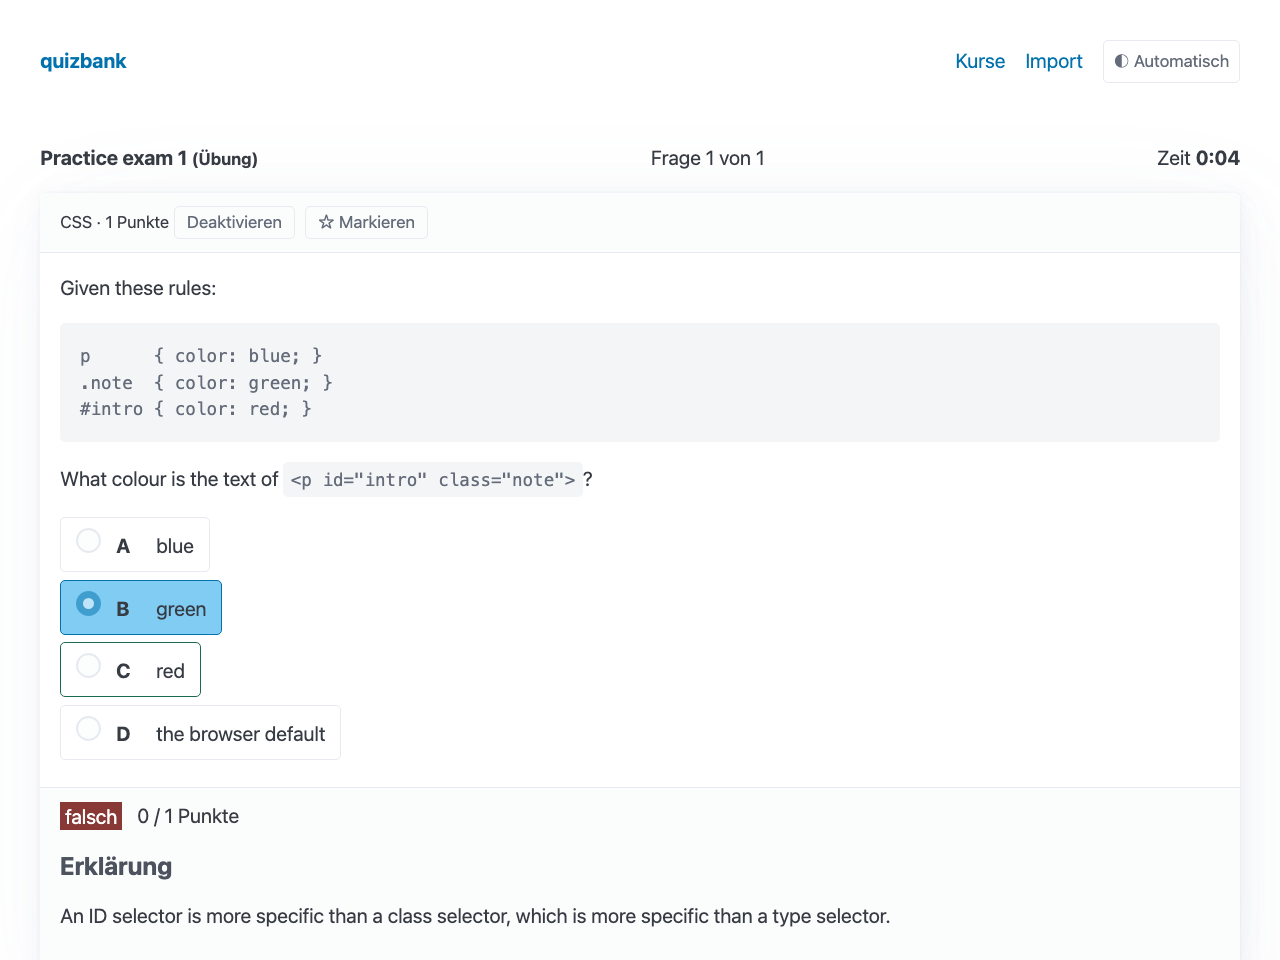
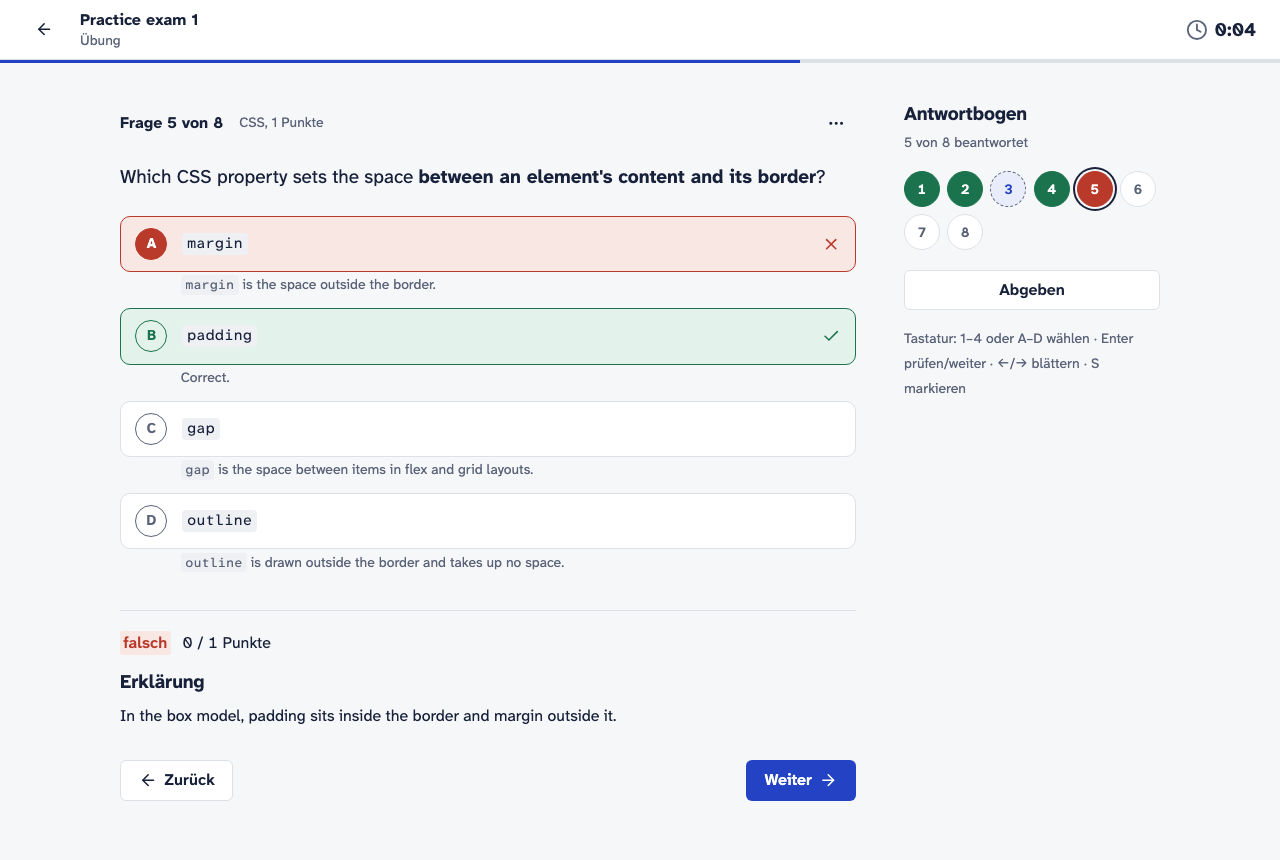
feat: polish the redesign for mobile, contrast and keyboard focus

diff --git a/app/static/app.css b/app/static/app.css
@@ -25,13 +25,14 @@
   --sheet: light-dark(#ffffff, #1a2130);
   --sheet-sunk: light-dark(#eef0f4, #151b27);
   --rule: light-dark(#dce0e7, #2a3346);
+  --field-line: light-dark(#868fa3, #677390); /* 3:1 on sheet and paper: a text field has no other edge */
   --ink: light-dark(#18213a, #e6e9f0);
   --ink-muted: light-dark(#5a6378, #9aa3b5);
   --ballpoint: light-dark(#2443c4, #8ca0ff);
   --ballpoint-wash: light-dark(#e8ecfb, #222c4a);
   --on-ballpoint: light-dark(#ffffff, #121722);
   --marker: light-dark(#f2dd4c, #c9b53a);
-  --right: light-dark(#1e7f55, #4cc28f);
+  --right: light-dark(#1a734d, #4cc28f);
   --right-wash: light-dark(#e3f3eb, #16302a);
   --wrong: light-dark(#b93a2a, #ff7a66);
   --wrong-wash: light-dark(#f9e7e4, #3a2024);
@@ -101,7 +102,7 @@ input, select, textarea, button { font: inherit; color: inherit; }
 input:not([type="checkbox"], [type="radio"], [type="file"]), select, textarea {
   display: block; width: 100%; margin-top: 0.3rem;
   padding: 0.55rem 0.75rem;
-  background: var(--sheet); border: 1px solid var(--rule); border-radius: var(--radius);
+  background: var(--sheet); border: 1px solid var(--field-line); border-radius: var(--radius);
 }
 input:hover, select:hover, textarea:hover { border-color: var(--ink-muted); }
 input:focus-visible, select:focus-visible, textarea:focus-visible { border-color: var(--ballpoint); }
@@ -152,7 +153,6 @@ button:disabled { opacity: 0.45; cursor: not-allowed; filter: none; }
 td form button { padding: 0.3rem 0.75rem; font-size: var(--t-small); }
 
 /* ---- Tables, panels, disclosure -------------------------------------------------------- */
-.overflow-auto { overflow-x: auto; margin-bottom: var(--space); }
 table { width: 100%; border-collapse: collapse; font-variant-numeric: tabular-nums; }
 th, td { text-align: left; padding: 0.6rem 0.75rem; border-bottom: 1px solid var(--rule); vertical-align: middle; }
 thead th { font-size: var(--t-small); font-weight: 600; color: var(--ink-muted); border-bottom-color: var(--ink-muted); }
@@ -272,7 +272,8 @@ ul.errors { margin-bottom: 0; }
 .segmented label:hover { color: var(--ink); }
 .segmented > input:checked + label { background: var(--sheet); color: var(--ink); box-shadow: 0 1px 2px rgb(0 0 0 / 0.08), 0 0 0 1px var(--rule); }
 .segmented > input:focus-visible + label, .tab-bar > input:focus-visible + label,
-.filter-chips > input:focus-visible + label, .count { font-size: var(--t-small); font-weight: 600; color: var(--ink-muted); font-variant-numeric: tabular-nums; }
+.filter-chips > input:focus-visible + label { box-shadow: var(--focus); }
+.count { font-size: var(--t-small); font-weight: 600; color: var(--ink-muted); font-variant-numeric: tabular-nums; }
 
 .start { background: var(--sheet); border: 1px solid var(--rule); border-radius: var(--radius-panel); padding: 1.5rem; margin-bottom: 2.5rem; }
 .start-panel { display: none; margin: 0; }
@@ -477,14 +478,17 @@ form.assess output { font-variant-numeric: tabular-nums; }
 .case-text textarea { font-family: var(--mono); font-size: var(--t-small); }
 
 /* ---- Statistics: one series in ballpoint; thin marks, hairline grid ------------------- */
-.topic-stats th { font-weight: 400; white-space: nowrap; }
+.topic-stats th { font-weight: 400; }
+.topic-stats th, .topic-stats .num { white-space: nowrap; }
 .topic-stats .bar-cell { width: 60%; }
 .bar { height: 10px; background: var(--sheet-sunk); border-radius: 0 4px 4px 0; }
 .bar span { display: block; height: 100%; background: var(--ballpoint); border-radius: 0 4px 4px 0; }
-.line-chart { width: 100%; height: auto; overflow: visible; }
+.line-chart { margin: 0; font-size: var(--t-small); color: var(--ink-muted); font-variant-numeric: tabular-nums; }
+.line-chart .plot { position: relative; margin-top: 1.5rem; } /* room for the top tick label */
+.line-chart svg { display: block; width: 100%; height: auto; overflow: visible; }
+.line-chart .tick { position: absolute; left: var(--inset); transform: translateY(-100%); line-height: 1.3; pointer-events: none; }
+.line-chart .dates { display: flex; justify-content: space-between; padding: 0.25rem var(--inset) 0; }
 .line-chart .grid-line { stroke: var(--rule); stroke-width: 1; }
-.line-chart .axis-label { fill: var(--ink-muted); font-size: 11px; }
-.line-chart .axis-label.end { text-anchor: end; }
 .line-chart .series { fill: none; stroke: var(--ballpoint); stroke-width: 2; stroke-linejoin: round; stroke-linecap: round; }
 .line-chart .dot { fill: var(--ballpoint); stroke: var(--sheet); stroke-width: 2; pointer-events: none; }
 .line-chart .hit { fill: transparent; }
@@ -515,6 +519,14 @@ form.assess output { font-variant-numeric: tabular-nums; }
   .segmented label { flex: 1; justify-content: center; padding: 0.45rem 0.5rem; text-align: center; }
   .tab-bar { flex-wrap: nowrap; overflow-x: auto; }
   .tab-bar label { white-space: nowrap; }
+  /* Tables become lists: the first cell is the row's title (with the row action beside it),
+     the rest wrap below with their column name from data-label; the header row is hidden. */
+  table.stack thead { display: none; }
+  table.stack tr { display: flex; flex-wrap: wrap; align-items: center; gap: 0.4rem 1.25rem; padding: 0.75rem 0; border-bottom: 1px solid var(--rule); }
+  table.stack td { padding: 0; border: 0; text-align: left; }
+  table.stack td:first-child { flex: 1 0 60%; order: -2; }
+  table.stack td[data-label]::before { content: attr(data-label); display: block; font-size: var(--t-small); color: var(--ink-muted); }
+  table.stack .row-action { order: -1; }
   .qlist li { grid-template-columns: 1.5rem minmax(0, 1fr) auto 2.5rem; }
   .qtopic { display: none; }
   .focus-bar { padding: 0.5rem 0.75rem; gap: 0.5rem; }
@@ -528,6 +540,11 @@ form.assess output { font-variant-numeric: tabular-nums; }
   article { padding: 1rem; }
   article > header { margin: -1rem -1rem 1rem; padding: 0.75rem 1rem; }
   article > footer { margin: 1rem -1rem -1rem; padding: 0.75rem 1rem; }
+}
+
+/* No physical keyboard to speak of: the shortcut hint would only be noise */
+@media (hover: none) and (pointer: coarse) {
+  .keys { display: none; }
 }
 
 @media (prefers-reduced-motion: reduce) {

diff --git a/app/templates/exam.html b/app/templates/exam.html
@@ -122,14 +122,15 @@
 
   <section class="tab-panel" data-tab="history">
     {% if history %}
-    <div class="overflow-auto">
-    <table>
+    {# Column names, shared by the header and the stacked mobile rows (data-label) #}
+    {% set col_mode, col_score, col_duration = t("history.mode"), t("history.score"), t("history.duration") %}
+    <table class="stack">
       <thead>
         <tr>
           <th>{{ t("history.date") }}</th>
-          <th>{{ t("history.mode") }}</th>
-          <th>{{ t("history.score") }}</th>
-          <th class="num">{{ t("history.duration") }}</th>
+          <th>{{ col_mode }}</th>
+          <th>{{ col_score }}</th>
+          <th class="num">{{ col_duration }}</th>
           <th><span class="visually-hidden">{{ t("history.delete") }}</span></th>
         </tr>
       </thead>
@@ -137,15 +138,14 @@
         {% for attempt in history %}
         <tr>
           <td><a href="{{ path('attempt_review', attempt_id=attempt.id) }}">{{ attempt.finished_at | dt }}</a></td>
-          <td>{{ t("mode." ~ attempt.mode) }}</td>
-          <td>{{ attempt_result(attempt) }}</td>
-          <td class="num">{{ attempt.duration_seconds | duration }}</td>
-          <td class="num">{{ confirm_form(path('delete_attempt', attempt_id=attempt.id), t("history.delete"), t("history.delete_confirm"), "btn-quiet") }}</td>
+          <td data-label="{{ col_mode }}">{{ t("mode." ~ attempt.mode) }}</td>
+          <td data-label="{{ col_score }}">{{ attempt_result(attempt) }}</td>
+          <td class="num" data-label="{{ col_duration }}">{{ attempt.duration_seconds | duration }}</td>
+          <td class="num row-action">{{ confirm_form(path('delete_attempt', attempt_id=attempt.id), t("history.delete"), t("history.delete_confirm"), "btn-quiet") }}</td>
         </tr>
         {% endfor %}
       </tbody>
     </table>
-    </div>
     {% else %}
     <p class="muted">{{ t("history.empty") }}</p>
     {% endif %}

diff --git a/app/templates/course.html b/app/templates/course.html
@@ -5,30 +5,31 @@
 {{ page_head(course.label, [(t("nav.courses"), path("course_list")), (course.label, none)]) }}
 
 {% if exams %}
-<div class="overflow-auto">
-<table>
+{# Column names, shared by the header and the stacked mobile rows (data-label) #}
+{% set col_questions, col_time_limit = t("course.questions"), t("course.time_limit") %}
+{% set col_pass_mark, col_last_result = t("course.pass_mark"), t("course.last_result") %}
+<table class="stack">
   <thead>
     <tr>
       <th>{{ t("course.exams") }}</th>
-      <th class="num">{{ t("course.questions") }}</th>
-      <th class="num">{{ t("course.time_limit") }}</th>
-      <th class="num">{{ t("course.pass_mark") }}</th>
-      <th>{{ t("course.last_result") }}</th>
+      <th class="num">{{ col_questions }}</th>
+      <th class="num">{{ col_time_limit }}</th>
+      <th class="num">{{ col_pass_mark }}</th>
+      <th>{{ col_last_result }}</th>
     </tr>
   </thead>
   <tbody>
     {% for exam in exams %}
     <tr>
       <td><a class="row-title" href="{{ path('exam_detail', exam_id=exam.id) }}">{{ exam.title }}</a></td>
-      <td class="num">{{ question_counts.get(exam.id, 0) }}</td>
-      <td class="num">{{ time_limit(exam) }}</td>
-      <td class="num">{{ pass_mark(exam) }}</td>
-      <td>{{ attempt_result(last_attempts.get(exam.id)) }}</td>
+      <td class="num" data-label="{{ col_questions }}">{{ question_counts.get(exam.id, 0) }}</td>
+      <td class="num" data-label="{{ col_time_limit }}">{{ time_limit(exam) }}</td>
+      <td class="num" data-label="{{ col_pass_mark }}">{{ pass_mark(exam) }}</td>
+      <td data-label="{{ col_last_result }}">{{ attempt_result(last_attempts.get(exam.id)) }}</td>
     </tr>
     {% endfor %}
   </tbody>
 </table>
-</div>
 {% else %}
 <p class="muted">{{ t("course.no_exams") }}</p>
 {% endif %}

diff --git a/app/templates/_macros.html b/app/templates/_macros.html
@@ -126,10 +126,12 @@
 
 {# Score percentages over time; each point links to its review and has a tooltip. #}
 {% macro line_chart(chart, label) -%}
-  <svg class="line-chart" viewBox="0 0 {{ chart.width }} {{ chart.view_height }}" role="img" aria-label="{{ label }}">
+  {# Labels are HTML on top of the SVG, so they keep the page's text size at any chart width. #}
+  <figure class="line-chart" style="--inset: {{ '%.2f' % chart.inset }}%">
+  <div class="plot">
+  <svg viewBox="0 0 {{ chart.width }} {{ chart.height }}" role="img" aria-label="{{ label }}">
     {% for tick, y in chart.ticks %}
     <line class="grid-line" x1="{{ chart.points[0].x }}" x2="{{ chart.points[-1].x }}" y1="{{ y }}" y2="{{ y }}"></line>
-    <text class="axis-label" x="{{ chart.points[0].x }}" y="{{ y - 3 }}">{{ tick }} %</text>
     {% endfor %}
     <polyline class="series" points="{{ chart.polyline }}"></polyline>
     {% for p in chart.points %}
@@ -140,7 +142,13 @@
       <circle class="dot" cx="{{ p.x }}" cy="{{ p.y }}" r="4"></circle>
     </a>
     {% endfor %}
-    <text class="axis-label" x="{{ chart.points[0].x }}" y="{{ chart.view_height - 4 }}">{{ chart.points[0].attempt.finished_at | dt }}</text>
-    <text class="axis-label end" x="{{ chart.points[-1].x }}" y="{{ chart.view_height - 4 }}">{{ chart.points[-1].attempt.finished_at | dt }}</text>
   </svg>
+  {% for tick, y in chart.ticks %}
+  <span class="tick" aria-hidden="true" style="top: {{ '%.2f' % (100 * y / chart.height) }}%">{{ tick }} %</span>
+  {% endfor %}
+  </div>
+  <figcaption class="dates">
+    <span>{{ chart.points[0].attempt.finished_at | dt }}</span><span>{{ chart.points[-1].attempt.finished_at | dt }}</span>
+  </figcaption>
+  </figure>
 {%- endmacro %}

diff --git a/app/templates/courses.html b/app/templates/courses.html
@@ -29,26 +29,26 @@
 </form>
 
 {% if courses %}
-<div class="overflow-auto">
-<table>
+{# Column names, shared by the header and the stacked mobile rows (data-label) #}
+{% set col_exams, col_last_practiced = t("course.exams"), t("courses.last_practiced") %}
+<table class="stack">
   <thead>
     <tr>
       <th>{{ t("course.name") }}</th>
-      <th class="num">{{ t("course.exams") }}</th>
-      <th>{{ t("courses.last_practiced") }}</th>
+      <th class="num">{{ col_exams }}</th>
+      <th>{{ col_last_practiced }}</th>
     </tr>
   </thead>
   <tbody>
     {% for row in courses %}
     <tr>
       <td><a class="row-title" href="{{ path('course_detail', course_id=row.course.id) }}">{{ row.course.label }}</a></td>
-      <td class="num">{{ row.exam_count }}</td>
-      <td class="muted">{{ row.last_practiced | dt if row.last_practiced else t("courses.never") }}</td>
+      <td class="num" data-label="{{ col_exams }}">{{ row.exam_count }}</td>
+      <td class="muted" data-label="{{ col_last_practiced }}">{{ row.last_practiced | dt if row.last_practiced else t("courses.never") }}</td>
     </tr>
     {% endfor %}
   </tbody>
 </table>
-</div>
 {% elif q %}
 <p class="muted">{{ t("courses.no_match", q=q) }}</p>
 {% else %}

diff --git a/app/stats.py b/app/stats.py
@@ -6,7 +6,7 @@ from dataclasses import dataclass
 from app.models import Attempt
 
 # Line chart geometry (SVG user units); the template only loops over what is computed here.
-WIDTH, HEIGHT, PAD, AXIS_BAND = 600, 160, 12, 20
+WIDTH, HEIGHT, PAD = 600, 160, 12
 TICKS = (0, 50, 100)
 
 
@@ -43,11 +43,15 @@ class LineChart:
     points: list[ChartPoint]
     width: int = WIDTH
     height: int = HEIGHT
-    view_height: int = HEIGHT + AXIS_BAND
 
     @property
     def ticks(self) -> list[tuple[int, float]]:
         return [(tick, y_of(tick)) for tick in TICKS]
+
+    @property
+    def inset(self) -> float:
+        """Horizontal padding as a percentage of the width, for the HTML axis labels."""
+        return 100 * PAD / WIDTH
 
     @property
     def polyline(self) -> str:

diff --git a/CLAUDE.md b/CLAUDE.md
@@ -44,8 +44,8 @@ Die App soll später **öffentlich auf GitHub geteilt** werden. Andere bringen i
 | Backend | Python 3.12+, **FastAPI** | einfach, gute Doku, automatische API-Doku unter `/docs` |
 | Datenbank | **SQLite** via **SQLModel** | eine Datei, kein extra Service |
 | Frontend | **Jinja2-Templates** für normale Seiten, **Alpine.js** für den Quiz-Ablauf (eine Seite, Fragen als JSON, Antworten per `fetch` gespeichert) | kein Build-Schritt; Zustand (Timer, Navigation, Tastatur, Feedback) an einem Ort; Fortsetzen abgebrochener Versuche ohne Zusatzaufwand. Kein HTMX. |
-| Styling | **Pico.css v2**, lokal in `app/static/vendor/` | sauberes Design, Hell/Dunkel eingebaut, offline-fähig |
-| Diagramme | **Chart.js** (lokal) bzw. CSS-Balken | einfache Statistik ohne Build |
+| Styling | **Eigenes CSS-Designsystem** in `app/static/app.css` (Tokens mit `light-dark()`, Hell/Dunkel über `data-theme`), Schriften **Atkinson Hyperlegible Next/Mono** lokal in `app/static/vendor/fonts/`, Lucide-Symbole als Sprite `app/static/icons.svg` | eigene Identität („Antwortbogen“), keine Konflikte mit Framework-Defaults, offline-fähig |
+| Diagramme | CSS-Balken und SVG-Linie aus Jinja-Macros | einfache Statistik ohne Build und ohne Bibliothek |
 | Inhalte | **Markdown** (markdown-it-py + Sanitizing via nh3) in Frage, Szenario, Optionen, Erklärungen; **KaTeX** (lokal) für `$…$`/`$$…$$` | generisch für alle Fächer (Code, Tabellen, Formeln) |
 | Validierung | Pydantic-Modelle für das Import-JSON | klare Fehlermeldungen beim Import |
 | Migrationen | **Alembic** ab Start | Updates brechen keine Nutzer-DBs |
@@ -231,7 +231,7 @@ quizbank/
 │   │   ├── exams.py
 │   │   └── attempts.py
 │   ├── templates/         # Jinja2
-│   └── static/            # app.css, quiz.js (Alpine), vendor/ (Pico, Alpine, Chart.js, KaTeX)
+│   └── static/            # app.css, icons.svg, shell.js (Theme, Menüs, Formular-Helfer), quiz.js (Alpine), vendor/ (Alpine, fonts/)
 ├── schema/exam.schema.json
 ├── examples/sample-exam.json
 ├── docs/generate-exam-prompt.md
@@ -284,7 +284,7 @@ quizbank/
 - [x] Timer → Server-Deadline, läuft weiter, lazy Auto-Abgabe
 - [x] „Falsche wiederholen" → persistenter **Falsch-Pool pro Exam** (raus nach 2× richtig in Folge) statt „letzte N Versuche"
 - [x] Selbstbewertung `open` → pro Raster-Kriterium (`rubric_scores`)
-- [ ] Redesign der UI (später, nach den Funktionen): u. a. Stern-/Deaktivieren-Buttons klarer unterscheidbar machen („Deaktivieren" vs. „Deaktiviert" zu ähnlich)
+- [x] Redesign der UI → **„Antwortbogen“**: eigenes Designsystem statt Pico, linke Seitenleiste, Quiz im Fokusmodus mit Antwortbogen, Fragenaktionen im „⋯“-Menü (Aktionen statt Zustände), eine Fragenliste mit Filtern statt eigener Pool-Tabelle
 
 ## graphify
 

diff --git a/README.md b/README.md
@@ -133,7 +133,7 @@ uv run ruff check . && uv run ruff format --check .
 uv run python -m app.schemas              # regenerate schema/exam.schema.json
 ```
 
-The stack is FastAPI, SQLModel/SQLite with Alembic migrations, Jinja2 templates, Alpine.js for the quiz page and Pico.css. There is no build step, and all front-end libraries are vendored.
+The stack is FastAPI, SQLModel/SQLite with Alembic migrations, Jinja2 templates, Alpine.js for the quiz page and a small hand-written CSS design system (`app/static/app.css`) with the Atkinson Hyperlegible fonts. There is no build step, and all front-end assets are vendored.
 
 ## Releases
 
